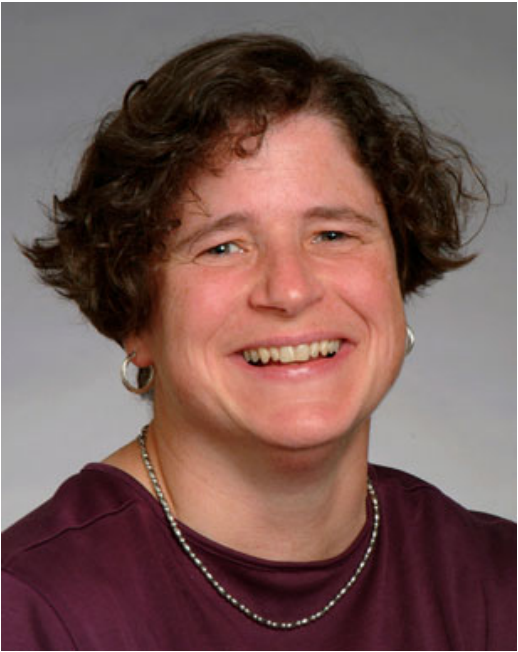
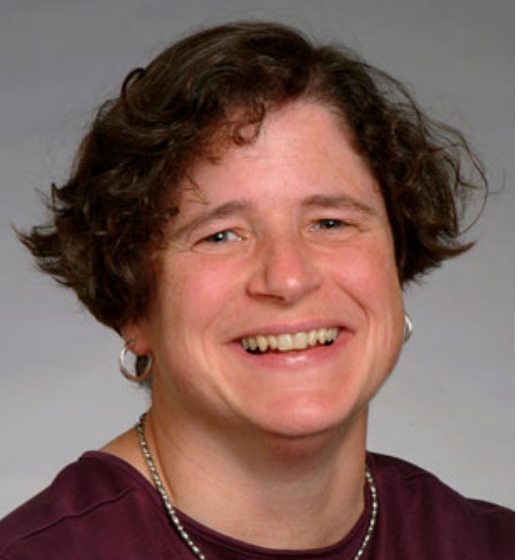
lp

diff --git a/index.html b/index.html
@@ -47,7 +47,7 @@
             <li><a href="/2014/index.html">NERC III</a></li>
           </ul>
 	</div>
-	<div class="col-sm-7 col-sm-offset-2 col-md-8 col-md-offset-1 main">
+	<div class="col-sm-7 col-sm-offset-1 col-md-8 col-md-offset-1 main">
           <h1>Northeast Robotics Colloquium</h1>
 
               <p>The Northeast Robotics Colloquium (NERC) brings together the roboticists in the northeastern United States and Canada, in an event that is simultaneously a <strong>research meeting</strong>, 
@@ -91,45 +91,46 @@
 
 
 
-  <div class="col-sm-3 col-md-3 pic">
-    <img src="imgs/drew.jpg" width="100%">
-  </div>
+    <img style='float:left; margin: 2em' src="imgs/drew.jpg" width="200">
+
   
+
 
 <h3><a href="http://www.olin.edu/faculty/profile/andrew-bennett/">Prof. Andrew Bennett</a>, Olin College.</h4> 
 <p>Prof Bennett has worked on a variety of projects but was most in the news for a new project about <a href="http://bostinno.streetwise.co/2015/09/25/colleges-find-how-drones-will-fight-fires/">using UAVs to fight forest fires</a>.</br>
 
 <center><embed src="mediaplayer.swf?file=imgs/WabanSnotFinal.mp4" width="210" height="160" allowfullscreen="true" /></center></p></br>
 
- 	<div class="col-sm-3 col-md-3 pic">
-	  <img src="imgs/leslie.png" width="100%">
-	</div>
+
+<img style='float:left; margin: 2em' src="imgs/leslie.png" width="200">
 
 
 
 <h3 style="padding-top:50px: margin-top: -20px;"><a href="http://people.csail.mit.edu/lpk/">Prof. Leslie Kaelbling</a>, MIT CSAIL.</h3>
-<p> Prof Kaelbling is a leader of the <a href="http://lis.csail.mit.edu/new/research.php">Learning and Intelligent Systems Group</a>.</br>
-<center><iframe width="210" height="160" src="https://www.youtube.com/embed/6XxqQ-7ZU4U" frameborder="0" allowfullscreen></iframe></center></br>
-</p> 
+<p> Prof Kaelbling is a leader of the <a href="http://lis.csail.mit.edu/new/research.php">Learning and Intelligent Systems Group</a>.</br></br>
+<center><iframe  width="210" height="160" src="https://www.youtube.com/embed/6XxqQ-7ZU4U" frameborder="5" allowfullscreen></iframe></center></p></br>
 
 
-  <div class="col-sm-3 col-md-3 pic">
-    <img src="imgs/sangbae.jpg" width="100%">
-  </div>
+    <img style='float:left; margin: 2em' src="imgs/sangbae.jpg" width="200">
+
+
   
   <h3><a href="http://biomimetics.mit.edu/">Prof. Sangbae Kim</a>, MIT ME</h3>
 
 
 <p>Prof. Kim is the head of the <a href="http://biomimetics.mit.edu/">Biomimetics Lab</a>, where they have recently been making headlines for their cheetah-inspired robot: </br>
-<center><iframe width="210" height="160" src="https://www.youtube.com/embed/_luhn7TLfWU" frameborder="0" allowfullscreen></iframe></center> </p></br>
+<center><iframe width="210" height="160" src="https://www.youtube.com/embed/_luhn7TLfWU" frameborder="5" allowfullscreen></iframe></center></br> </p>
+
+
     <h2 id="posters" style="padding-top: 50px; margin-top: -20px;">Call for Posters and Demos</h2>
 <p><b>Guidelines for poster abstract submissions</b>: Submit a proposal for demos or posters as a 1-paragraph abstract. Make sure that the author list, affiliations, and contact information are clear in the submission. Please email them to the organizers at <a href="mailto:nerc-2015@mit.edu">nerc-2015@mit.edu</a>, with subject "Poster" for poster submissions and "Demo" for demo submissions. We will accept posters and demos on a rolling basis.
 
 	  <h2 id="dates" style="padding-top: 50px; margin-top: -20px;">Important Dates</h2>
 <table>
 <tr><td>Poster/Demo Submission	</td><td> October 23, 2015 </td></tr>
+<tr><td><a href="#experience">NERC Experience</a> Registration Deadline </td><td> October 24, 2015 </td></tr>
 <tr><td>Poster/Demo Acceptance Notification	</td><td>October 29, 2015 </td></tr>
-<tr><td>Online Registration Deadline	</td><td>October 30, 2015</td></tr>
+<tr><td>Online Registration Deadline </td><td>November 3, 2015</td></tr>
 <tr><td>Colloquium </td><td>November 7, 2015</td></tr>
 </table>
 
@@ -158,7 +159,7 @@ The NERC Experience includes transportation to and from the event, as well as a 
 <!-- <tr><td>reduced (undergraduates, high-school, family members)</a></td><td>$50</td></tr>  -->
 </table>
 
-<p>Registration for the NERC Experience closes on October 24.</p>
+<p>Registration for the NERC Experience closes on <b>October 24</b>.</p>
 
 	  <h2 id="program" style="padding-top: 50px; margin-top: -20px;">Program</h2>
 	  <table>
